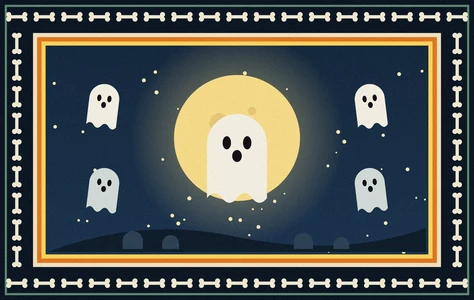
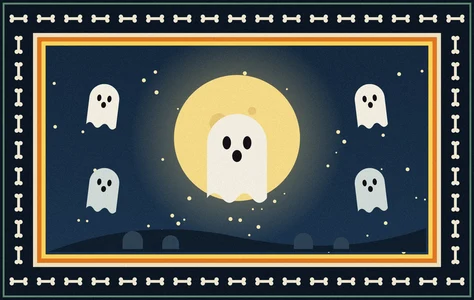
Halloween rugs: keep border motifs inside their band (1.3.1)
Claude-Session: https://claude.ai/code/session_01PThtpvp5qKC4uwPcpokGhf

Changed region(s): [[0.0, 0.0, 1.0, 1.0]]

diff --git a/app/rugTexture.js b/app/rugTexture.js
@@ -458,9 +458,12 @@ function halloweenWeb(ctx, W, H, seed) {
   // border: black band with orange crescent moons and bats
   ctx.fillStyle = C.border; frameRect(ctx, 0, 0, W, H, 11 * u);
   ctx.fillStyle = C.border2; frameRect(ctx, 11 * u, 11 * u, W - 22 * u, H - 22 * u, 1.2 * u);
-  ctx.fillStyle = C.web; frameRect(ctx, 2 * u, 2 * u, W - 4 * u, H - 4 * u, 0.6 * u);
-  for (const [x, y, side, i] of bandPoints(5.5 * u, 5.5 * u, W - 11 * u, H - 11 * u, 13 * u)) {
-    ctx.save(); ctx.translate(x, y);
+  ctx.fillStyle = C.web; frameRect(ctx, 0.9 * u, 0.9 * u, W - 1.8 * u, H - 1.8 * u, 0.5 * u);
+  // Motifs sit in the middle of the black band (between the cream edge line at ~1.4u and the orange line at 11u)
+  // and stay well inside it: moons 2u across the radius, bats about 6u wide.
+  const bc = 6.2 * u;
+  for (const [x, y, side, i] of bandPoints(bc, bc, W - 2 * bc, H - 2 * bc, 12 * u)) {
+    ctx.save(); ctx.translate(x, y); ctx.scale(0.78, 0.78);
     if (i % 2) { // crescent moon
       ctx.fillStyle = C.moon; ctx.beginPath(); ctx.arc(0, 0, 2.6 * u, 0, Math.PI * 2); ctx.fill();
       ctx.fillStyle = C.border; ctx.beginPath(); ctx.arc(1.1 * u, -0.6 * u, 2.3 * u, 0, Math.PI * 2); ctx.fill();
@@ -566,9 +569,10 @@ function halloweenGhost(ctx, W, H, seed) {
   ctx.fillStyle = C.border; frameRect(ctx, 0, 0, W, H, 11 * u);
   const stripe = 1.4 * u;
   for (let i = 0; i < 3; i++) { ctx.fillStyle = C.candy[i]; frameRect(ctx, 11 * u + i * stripe, 11 * u + i * stripe, W - 2 * (11 * u + i * stripe), H - 2 * (11 * u + i * stripe), stripe); }
-  ctx.fillStyle = C.border2; frameRect(ctx, 1.6 * u, 1.6 * u, W - 3.2 * u, H - 3.2 * u, 0.7 * u);
-  for (const [x, y, side] of bandPoints(5.6 * u, 5.6 * u, W - 11.2 * u, H - 11.2 * u, 9 * u)) {
-    ctx.save(); ctx.translate(x, y); ctx.rotate(side ? Math.PI / 2 : 0);
+  ctx.fillStyle = C.border2; frameRect(ctx, 0.9 * u, 0.9 * u, W - 1.8 * u, H - 1.8 * u, 0.6 * u);
+  const bc = 6.2 * u;
+  for (const [x, y, side] of bandPoints(bc, bc, W - 2 * bc, H - 2 * bc, 9 * u)) {
+    ctx.save(); ctx.translate(x, y); ctx.rotate(side ? Math.PI / 2 : 0); ctx.scale(0.85, 0.85);
     ctx.fillStyle = C.bone;
     ctx.fillRect(-2.6 * u, -0.55 * u, 5.2 * u, 1.1 * u);
     for (const sx of [-1, 1]) for (const sy of [-1, 1]) { ctx.beginPath(); ctx.arc(sx * 2.7 * u, sy * 0.75 * u, 0.85 * u, 0, Math.PI * 2); ctx.fill(); }

diff --git a/release-notes/v1.3.1.md b/release-notes/v1.3.1.md
@@ -1,0 +1,14 @@
+A rug for your desktop. Grab it, lift a corner and sweep your files under it. On Windows and Mac.
+
+**What's new in 1.3.1**
+- Spider Web and Ghost Night: the moons, bats and bones now sit neatly inside their border band.
+
+**From 1.3.0**
+- **Halloween rugs.** Three new patterns on their own shelf in the panel: *Pumpkin Patch* (a knotted kilim full of jack-o'-lanterns and bats), *Spider Web* (a web medallion with a spider, bats and crescent moons) and *Ghost Night* (ghosts drifting past a full moon over a little graveyard, framed in bones).
+- From 1.2.2: the Invisible rug lines up exactly with your wallpaper.
+
+**Windows:** download `DesktopCarpet-Setup.exe` below and run it. If Windows shows "Windows protected your PC", choose *More info* → *Run anyway*. If you already have Desktop Carpet, it updates itself: look for "Restart and update" in the panel.
+
+**Mac:** download `DesktopCarpet-Mac.dmg`, open it and drag Desktop Carpet into Applications. The first time you open it, macOS may say it can't verify the app: open *System Settings → Privacy & Security*, scroll down and click *Open Anyway*. Later versions update themselves.
+
+Then paste the license key you got at https://desktopcarpet.com.
